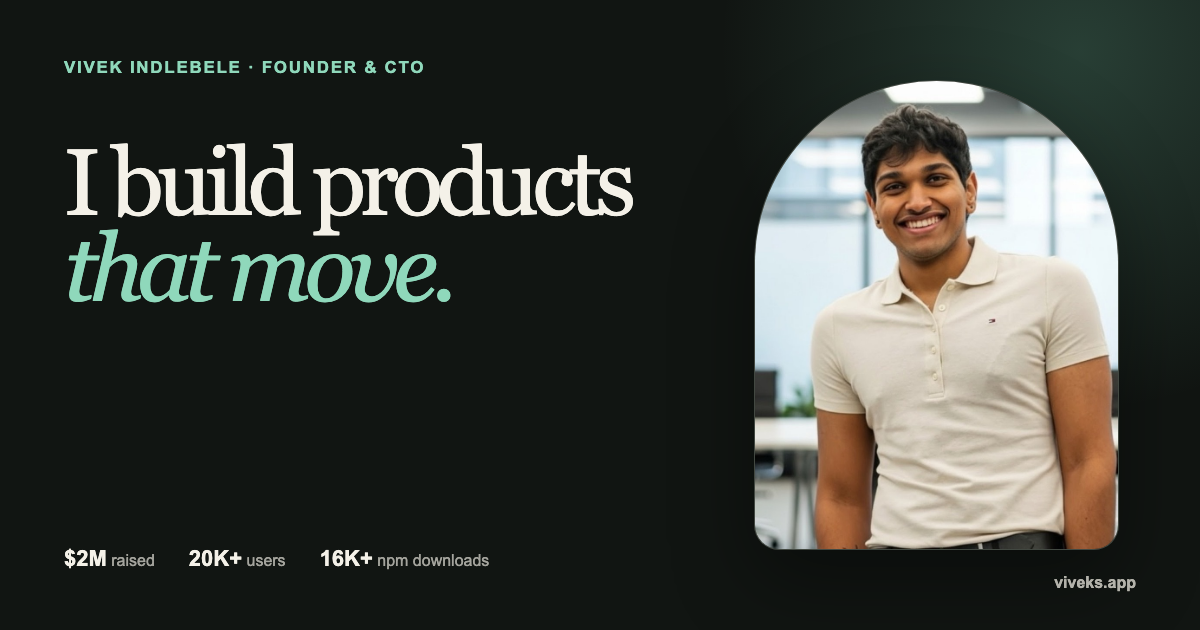
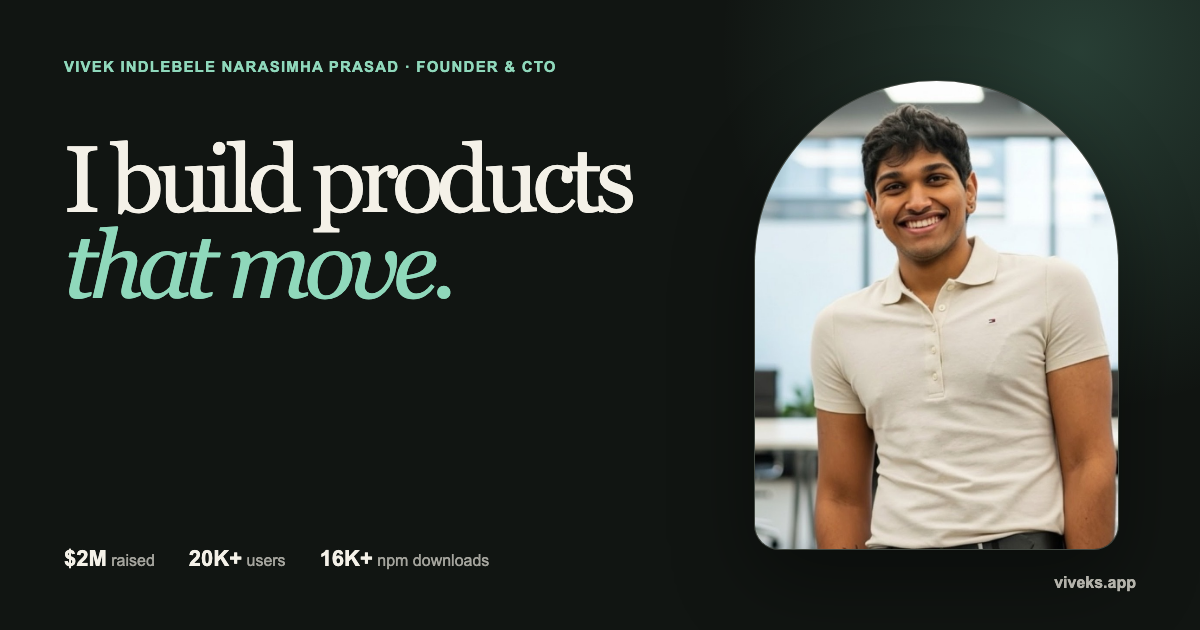
fix: keep full name on one header line (#10)

Changed region(s): [[0.0617, 0.2111, 0.5242, 0.4825], [0.0617, 0.0905, 0.4625, 0.1206], [0.0617, 0.2111, 0.1233, 0.2413]]

diff --git a/tests/site.spec.ts b/tests/site.spec.ts
@@ -72,6 +72,26 @@ test("hero metadata shares one text column", async ({ page }) => {
   expect(Math.abs((textStarts[0] ?? 0) - (textStarts[1] ?? 0))).toBeLessThanOrEqual(1);
 });
 
+test("header keeps the full name on one mobile line", async ({ page }) => {
+  await page.setViewportSize({ width: 320, height: 844 });
+  await page.goto("/");
+
+  const name = page.locator(".wordmark-name");
+  await expect(name).toHaveText("Vivek Indlebele Narasimha Prasad");
+  const layout = await name.evaluate((element) => {
+    const range = document.createRange();
+    range.selectNodeContents(element);
+    return {
+      lineCount: range.getClientRects().length,
+      nameRight: range.getBoundingClientRect().right,
+      toggleLeft: document.querySelector(".theme-toggle")?.getBoundingClientRect().left ?? 0,
+    };
+  });
+
+  expect(layout.lineCount).toBe(1);
+  expect(layout.nameRight).toBeLessThan(layout.toggleLeft);
+});
+
 test("work-card proof labels stay on one line", async ({ page }) => {
   await page.setViewportSize({ width: 320, height: 844 });
   await page.goto("/");

diff --git a/src/styles.css b/src/styles.css
@@ -220,15 +220,15 @@ ol {
   align-items: center;
   justify-content: space-between;
   min-height: 4.5rem;
-  gap: 1rem;
+  gap: 0.5rem;
 }
 
 .wordmark {
   display: inline-flex;
   align-items: center;
   min-width: 0;
-  gap: 0.65rem;
-  font-size: 0.7rem;
+  gap: 0.5rem;
+  font-size: clamp(0.55rem, 2.4vw, 0.7rem);
   font-weight: 750;
   letter-spacing: -0.02em;
   line-height: 1.18;
@@ -236,8 +236,8 @@ ol {
 
 .wordmark-image {
   flex: 0 0 auto;
-  width: 2.55rem;
-  height: 2.55rem;
+  width: 2.25rem;
+  height: 2.25rem;
   border-radius: 50%;
   object-fit: cover;
   object-position: 50% 35%;
@@ -245,7 +245,8 @@ ol {
 
 .wordmark-name {
   display: block;
-  max-width: 10.5rem;
+  max-width: none;
+  white-space: nowrap;
 }
 
 .primary-nav,
@@ -1739,6 +1740,15 @@ ol {
 }
 
 @media (min-width: 38rem) {
+  .header-inner {
+    gap: 1rem;
+  }
+
+  .wordmark-image {
+    width: 2.55rem;
+    height: 2.55rem;
+  }
+
   .wordmark-name {
     max-width: none;
     font-size: 0.78rem;

diff --git a/src/routes/open-source.tsx b/src/routes/open-source.tsx
@@ -1,17 +1,17 @@
 import { createFileRoute } from "@tanstack/react-router";
 
 import { PackagePlayground } from "#/components/package-playground";
+import { portfolio } from "#/content/portfolio";
 
 export const Route = createFileRoute("/open-source")({
   head: () => ({
     meta: [
-      { title: "Open source — Vivek Indlebele" },
+      { title: `Open source — ${portfolio.person.name}` },
       {
         name: "description",
-        content:
-          "Native React Native and Expo packages by Vivek Indlebele, with interactive web demonstrations.",
+        content: `Native React Native and Expo packages by ${portfolio.person.name}, with interactive web demonstrations.`,
       },
-      { property: "og:title", content: "Open source — Vivek Indlebele" },
+      { property: "og:title", content: `Open source — ${portfolio.person.name}` },
       {
         property: "og:description",
         content: "Native interactions packaged for the React Native community.",

diff --git a/src/routes/work.$slug.tsx b/src/routes/work.$slug.tsx
@@ -2,7 +2,7 @@ import { Link, createFileRoute, notFound } from "@tanstack/react-router";
 import { ArrowLeft, ArrowUpRight } from "lucide-react";
 
 import { Button } from "#/components/ui/button";
-import { getWork } from "#/content/portfolio";
+import { getWork, portfolio } from "#/content/portfolio";
 
 export const Route = createFileRoute("/work/$slug")({
   loader: ({ params }) => {
@@ -13,7 +13,7 @@ export const Route = createFileRoute("/work/$slug")({
   head: ({ loaderData }) => ({
     meta: loaderData
       ? [
-          { title: `${loaderData.name} — Vivek Indlebele` },
+          { title: `${loaderData.name} — ${portfolio.person.name}` },
           { name: "description", content: loaderData.summary },
           { property: "og:title", content: `${loaderData.name} — ${loaderData.descriptor}` },
           { property: "og:description", content: loaderData.summary },

diff --git a/src/routes/connect.tsx b/src/routes/connect.tsx
@@ -6,10 +6,10 @@ import { portfolio } from "#/content/portfolio";
 export const Route = createFileRoute("/connect")({
   head: () => ({
     meta: [
-      { title: "Connect — Vivek Indlebele" },
+      { title: `Connect — ${portfolio.person.name}` },
       {
         name: "description",
-        content: "Connect with Vivek Indlebele by email, Calendly, LinkedIn, or GitHub.",
+        content: `Connect with ${portfolio.person.name} by email, Calendly, LinkedIn, or GitHub.`,
       },
     ],
     links: [{ rel: "canonical", href: "https://viveks.app/connect" }],

diff --git a/src/routes/__root.tsx b/src/routes/__root.tsx
@@ -57,7 +57,7 @@ export const Route = createRootRoute({
       },
       { name: "theme-color", content: "#f4f1e8" },
       { name: "color-scheme", content: "light dark" },
-      { property: "og:site_name", content: "Vivek Indlebele" },
+      { property: "og:site_name", content: portfolio.person.name },
       { property: "og:type", content: "website" },
       { property: "og:image", content: "https://viveks.app/social-card.png" },
       { name: "twitter:card", content: "summary_large_image" },

diff --git a/src/components/site-shell.tsx b/src/components/site-shell.tsx
@@ -69,7 +69,7 @@ export function SiteShell({ children }: { children: ReactNode }) {
               <Terminal aria-hidden="true" /> Terminal
             </a>
           </div>
-          <p className="footer-note">© 2026 Vivek Indlebele</p>
+          <p className="footer-note">© 2026 {portfolio.person.name}</p>
         </div>
       </footer>
       <Analytics />

diff --git a/src/routes/index.tsx b/src/routes/index.tsx
@@ -74,7 +74,7 @@ function Home() {
         <div className="portrait-wrap reveal">
           <div className="portrait-frame">
             <img
-              alt="Vivek Indlebele smiling in an office"
+              alt={`${portfolio.person.name} smiling in an office`}
               height="1080"
               src="/vivek.jpg"
               width="1080"
